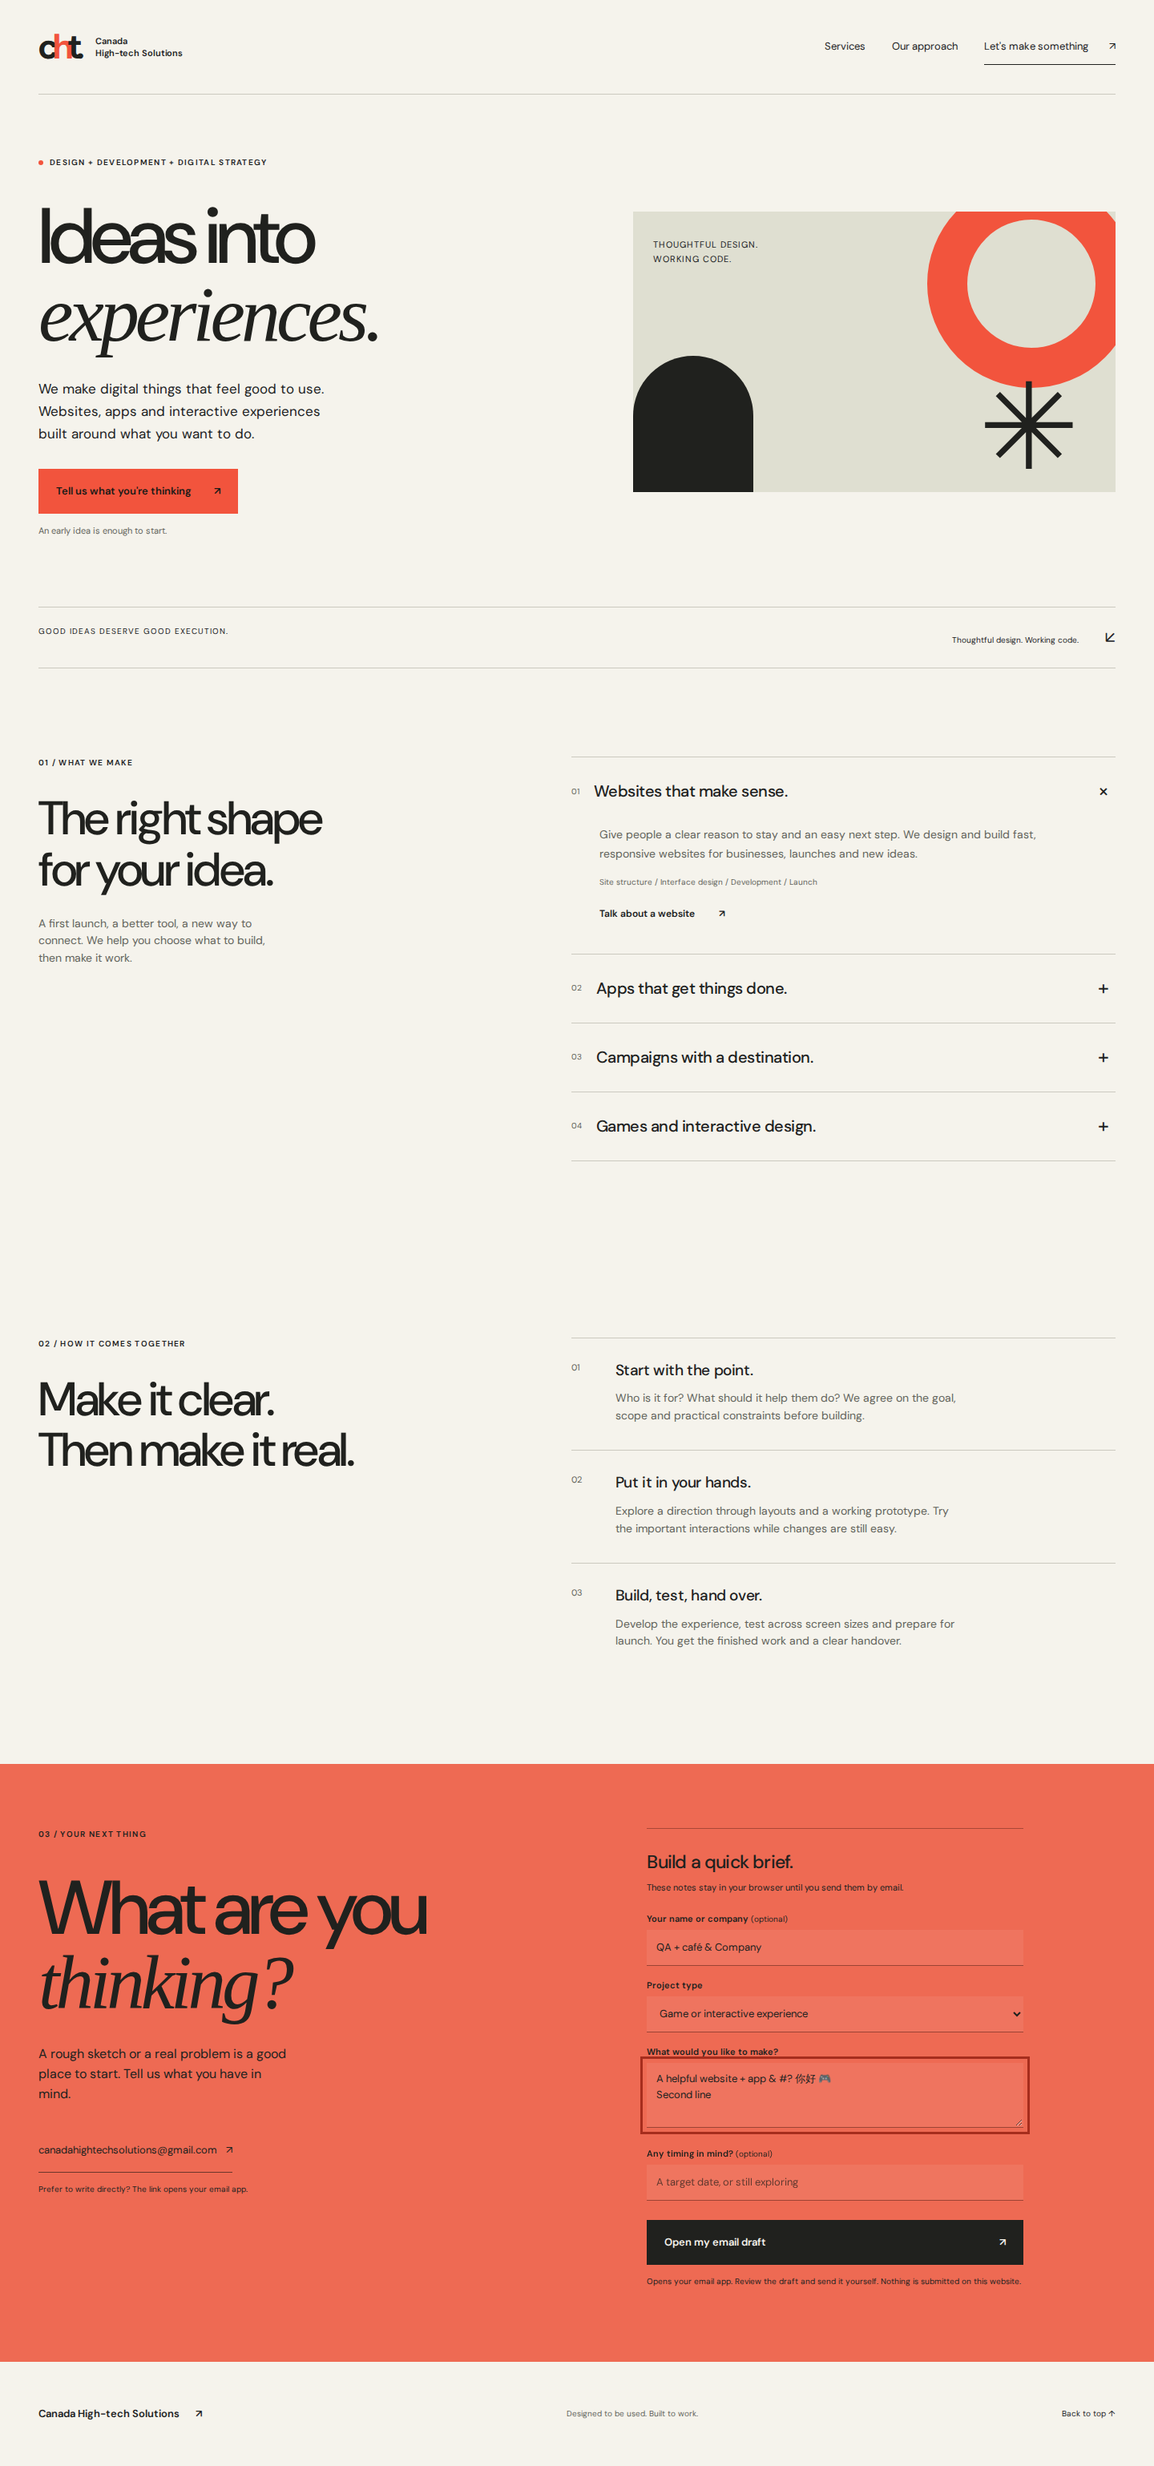
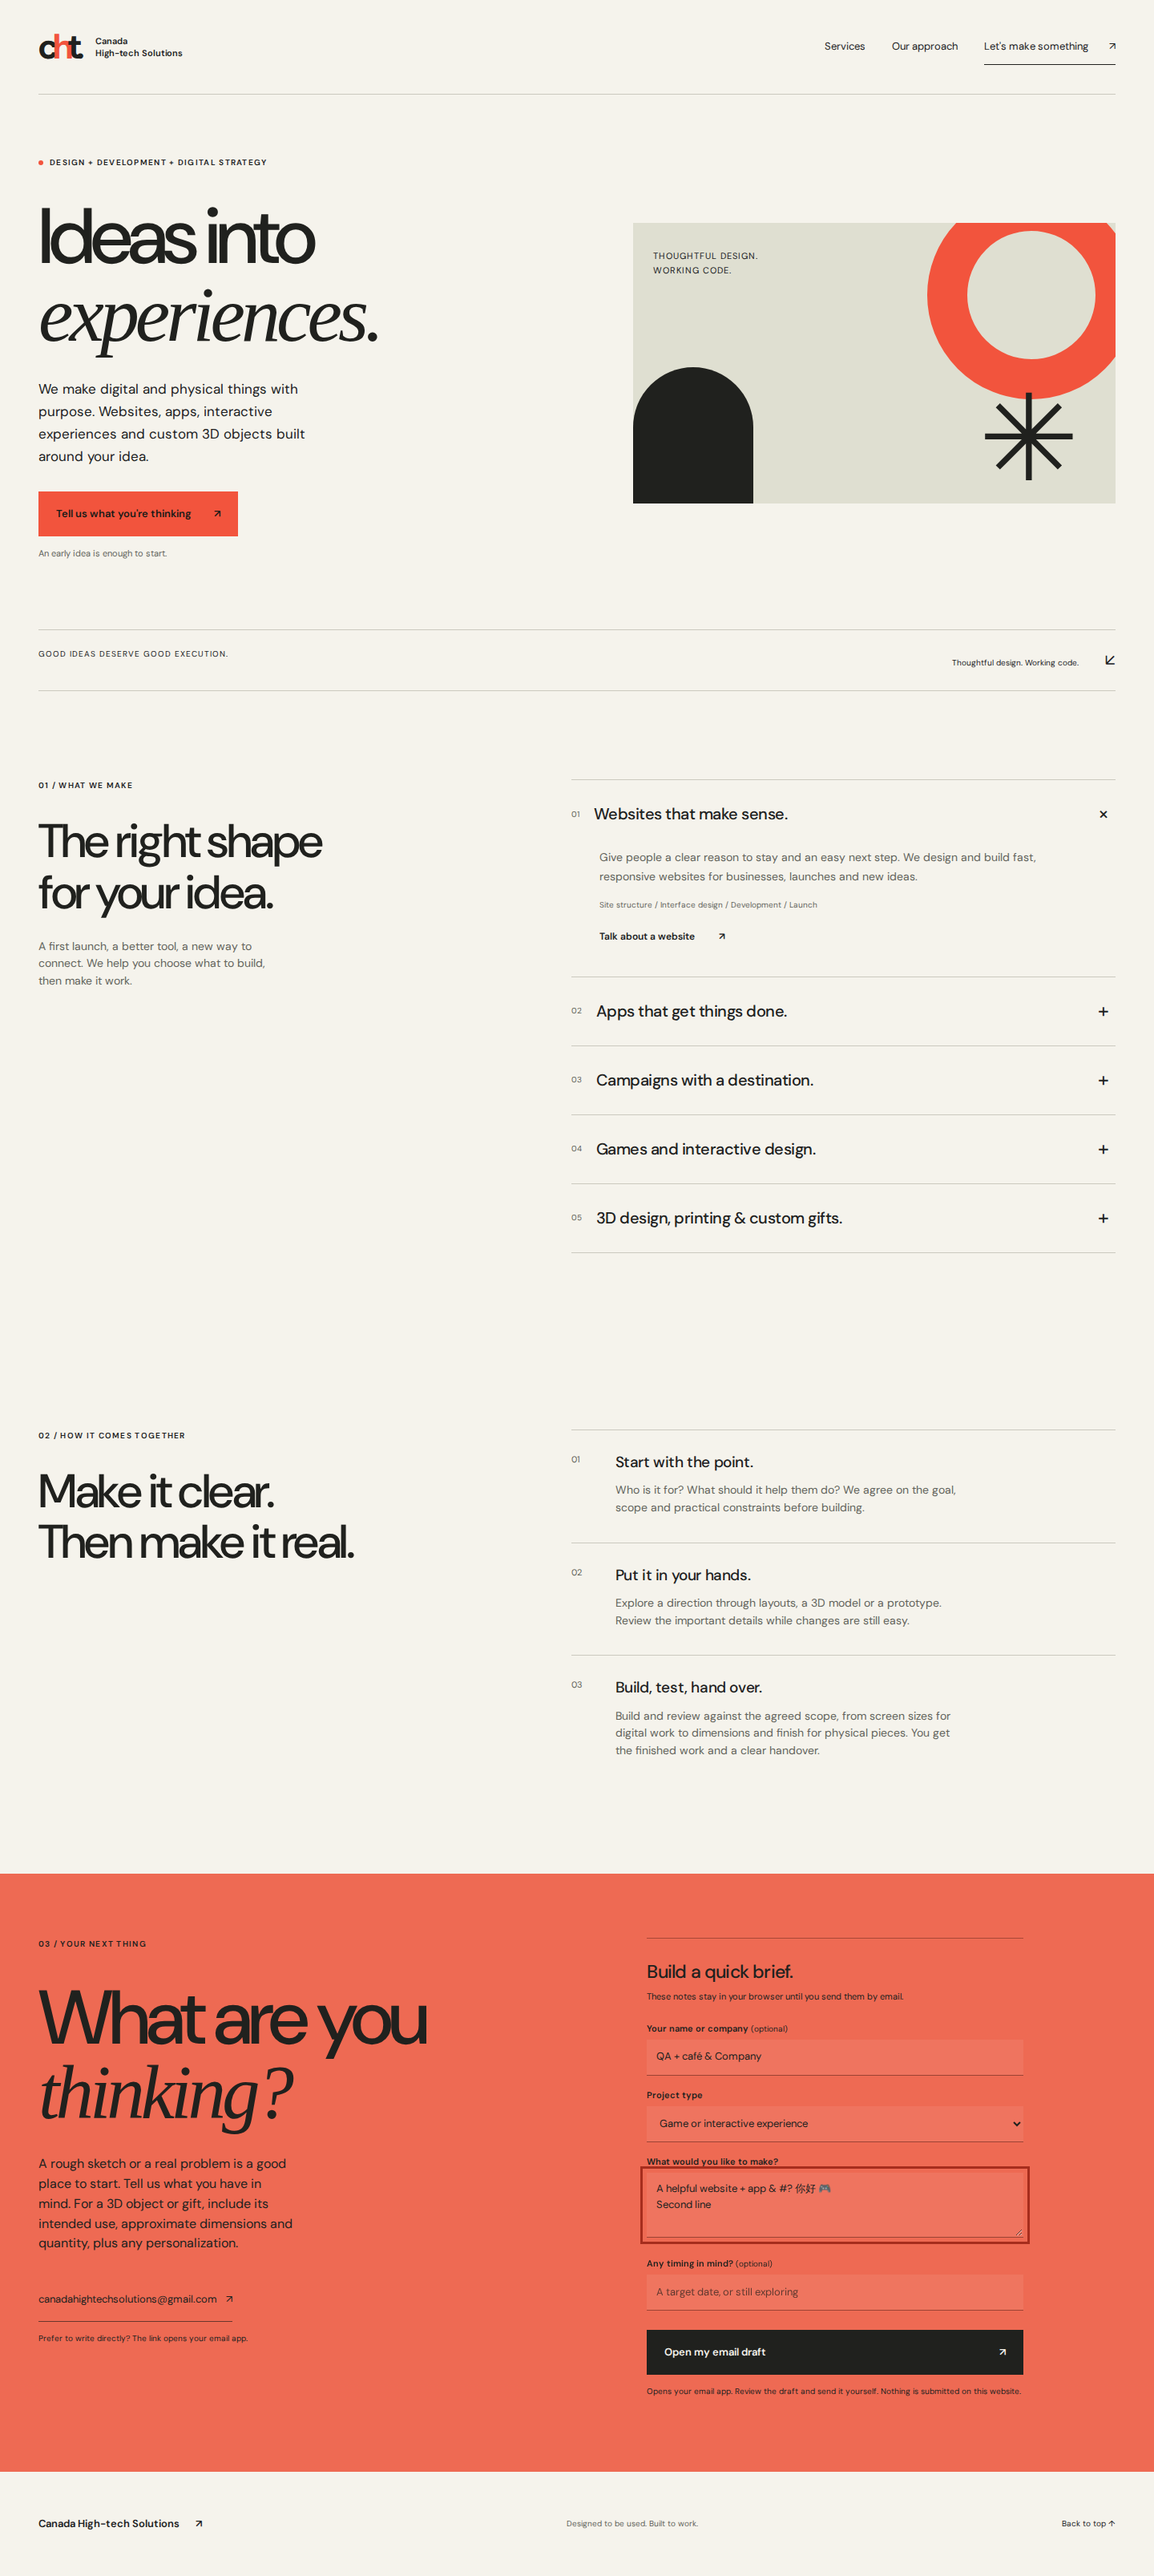
feat: add 3D design printing and custom gift services

diff --git a/public/index.html b/public/index.html
@@ -7,7 +7,7 @@
     <title>Canada High-tech Solutions | Ideas into experiences</title>
     <meta
       name="description"
-      content="Websites, apps, campaigns and interactive design and games. Canada High-tech Solutions turns your idea into something people can use."
+      content="Websites, apps, campaigns, interactive design, 3D design, 3D printing and custom gift design. Digital and physical ideas by Canada High-tech Solutions."
     />
     <link
       rel="canonical"
@@ -20,7 +20,7 @@
     />
     <meta
       property="og:description"
-      content="Thoughtful design. Working code. Websites, apps, campaigns and interactive experiences."
+      content="Digital and physical ideas, thoughtfully made. Websites, apps, interactive experiences, 3D design, 3D printing and custom gifts."
     />
     <meta
       property="og:url"
@@ -64,8 +64,8 @@
           </p>
           <h1 id="hero-title">Ideas into<br /><em>experiences.</em></h1>
           <p class="intro">
-            We make digital things that feel good to use. Websites, apps and
-            interactive experiences built around what you want to do.
+            We make digital and physical things with purpose. Websites, apps,
+            interactive experiences and custom 3D objects built around your idea.
           </p>
           <a class="button coral" href="#contact"
             >Tell us what you're thinking <span aria-hidden="true">↗</span></a
@@ -175,6 +175,33 @@
               >
             </div>
           </details>
+          <details>
+            <summary>
+              <span class="service-no">05</span>
+              <h3>3D design, printing &amp; custom gifts.</h3>
+              <span class="plus" aria-hidden="true">+</span>
+            </summary>
+            <div class="service-body">
+              <p>
+                Take an idea from sketch to a physical object. We offer 3D design,
+                3D printing and design-to-print custom gift design, with a shape
+                and finish considered around how you want to use it.
+              </p>
+              <p>
+                Ideas to explore include personalized gifts, branded desk items,
+                event keepsakes, display pieces and prototypes. These are possible
+                project directions, not a catalogue of past work.
+              </p>
+              <p>
+                Share a sketch or existing model, intended use, approximate
+                dimensions and quantity. Materials, final dimensions, quantity,
+                feasibility and timing are agreed per quote before work begins.
+              </p>
+              <p class="tags">3D modelling / Print planning / Personalization / Custom objects</p>
+              <a href="#contact" data-service="3D design, printing &amp; custom gifts"
+                >Talk about a 3D project or gift <span aria-hidden="true">↗</span></a>
+            </div>
+          </details>
         </div>
       </section>
       <section
@@ -199,16 +226,17 @@
             <span class="step-num">02</span>
             <h3>Put it in your hands.</h3>
             <p>
-              Explore a direction through layouts and a working prototype. Try
-              the important interactions while changes are still easy.
+              Explore a direction through layouts, a 3D model or a prototype.
+              Review the important details while changes are still easy.
             </p>
           </article>
           <article>
             <span class="step-num">03</span>
             <h3>Build, test, hand over.</h3>
             <p>
-              Develop the experience, test across screen sizes and prepare for
-              launch. You get the finished work and a clear handover.
+              Build and review against the agreed scope, from screen sizes for
+              digital work to dimensions and finish for physical pieces.
+              You get the finished work and a clear handover.
             </p>
           </article>
         </div>
@@ -220,7 +248,8 @@
             <h2 id="contact-title">What are you<br /><em>thinking?</em></h2>
             <p class="contact-intro">
               A rough sketch or a real problem is a good place to start. Tell us
-              what you have in mind.
+              what you have in mind. For a 3D object or gift, include its intended
+              use, approximate dimensions and quantity, plus any personalization.
             </p>
             <a class="email" href="mailto:canadahightechsolutions@gmail.com"
               >canadahightechsolutions@gmail.com
@@ -249,7 +278,8 @@
               <option>Website</option>
               <option>App</option>
               <option>Campaign</option>
-              <option>Game or interactive experience</option></select
+              <option>Game or interactive experience</option>
+              <option>3D design, printing &amp; custom gifts</option></select
             ><label for="idea">What would you like to make?</label
             ><textarea
               id="idea"

diff --git a/PROJECT.md b/PROJECT.md
@@ -1,7 +1,7 @@
 # Project
 
 ## Purpose
-A professional company services site for websites, apps, games, interactive design and campaigns. Explain deliverables, process and contact without experimental projects or invented credentials.
+A professional company services site for websites, apps, games, interactive design, campaigns, 3D design, 3D printing and custom gifts. Explain deliverables, process and contact without experimental projects or invented credentials.
 
 ## Direction
 Primary surface: Decide / Learn. Preserve Studio typography, serif emphasis, warm paper, ink and coral. Asymmetric editorial layout with a static geometric brand composition. No product mockups, lab widgets, personal portfolio, fake clients, testimonials or metrics. Design self-audit: 0/10.
